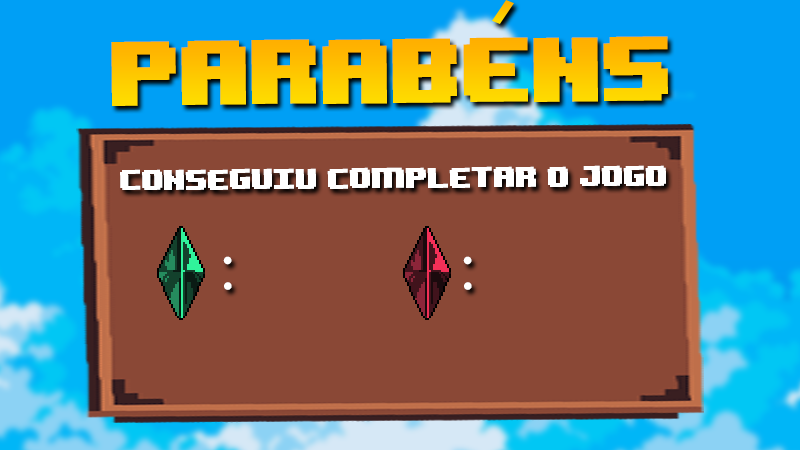
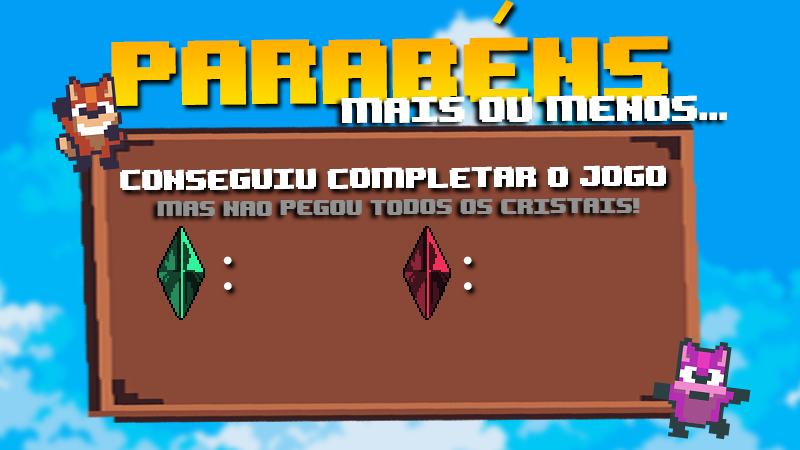
fimsinc

diff --git a/cliente/js/fase1.js b/cliente/js/fase1.js
@@ -99,6 +99,8 @@ export default class fase1 extends Phaser.Scene {
   }
 
   create () {
+    
+
     this.musica = this.sound.add("musicaa", {
       loop: true, // para repetir indefinidamente
       volume: 0.5, // volume entre 0 e 1
@@ -307,11 +309,30 @@ export default class fase1 extends Phaser.Scene {
     this.game.dadosJogo.onmessage = (event) => {
       const dados = JSON.parse(event.data);
 
-      if (dados.type === "finalizou" && !this.jogoFinalizado) {
-        console.log("→ Recebido sinal de finalização do outro jogador");
-        this.jogoFinalizado = true;
-        this.finalizarJogoLocal();
-      }
+     if (dados.type === "finalizou" && !this.jogoFinalizado) {
+  console.log("→ Recebido sinal de finalização do outro jogador");
+  this.jogoFinalizado = true;
+
+  const totalVerdes = dados.verdes ?? 0;
+const totalVermelhos = dados.vermelhos ?? 0;
+const pontuacao = dados.pontuacao ?? 0;
+
+  if (this.personagemLocal?.body) {
+    this.personagemLocal.body.enable = false;
+  }
+
+  if (totalVerdes === 11 && totalVermelhos === 7) {
+    console.log("[FINALIZAÇÃO REMOTA] Pegou todos! Indo para 'detonou'");
+    this.scene.start("detonou");
+  } else {
+    console.log("[FINALIZAÇÃO REMOTA] Indo para 'final-acabado'");
+    this.scene.start("final-acabado", {
+      pontuacao: this.pontuacao,
+      verdes: totalVerdes,
+      vermelhos: totalVermelhos,
+    });
+  }
+}
       if (dados.type === "pontuacao") {
   this.pontuacao = dados.pontuacao;
 
@@ -637,83 +658,93 @@ if (dados.cristal) {
       { x: 8482.0, y: 3664.67, cor: 0x00ff00 }, // branco (sem mudança)
       { x: 10442.0, y: 3508.67, cor: 0x00ff00 }, // laranja
       { x: 11978.0, y: 3395.33, cor: 0x00ff00 }, // roxo
-      { x: 13281.33, y: 4369.33, cor: 0xff66660 }, // roxo
+      { x: 13281.33, y: 4369.33, cor: 0xff6666 }, // roxo
       { x: 15312.0, y: 3181.33, cor: 0x00ff00 }, // verde
-      { x: 16725.33, y: 3490.67, cor: 0xff66660 }, // verde
+      { x: 16725.33, y: 3490.67, cor: 0xff6666 }, // verde
       { x: 17170.67, y: 2542.67, cor: 0x00ff00 },
-      { x: 17460.0, y: 3218.67, cor: 0xff66660 }, // branco (sem mudança)
+      { x: 17460.0, y: 3218.67, cor: 0xff6666 }, // branco (sem mudança)
       { x: 18416.0, y: 2338.0, cor: 0x00ff00 }, // branco (sem mudança)
-      { x: 19038.00, y: 2250.00, cor: 0x00ff00 }, // branco (sem mudança)
     ];
 
-    this.cristal.forEach((cristal) => {
-      cristal.objeto = this.physics.add.sprite(cristal.x, cristal.y, "crystal");
-      cristal.objeto.body.setAllowGravity(false);
-      cristal.objeto.play("crystal_spin");
+    this.cristaisContagem = {
+  verde: 0,
+  vermelho: 0
+};
 
-      // Aplica a cor tint sem perder a textura
-      cristal.objeto.setTint(cristal.cor);
+this.cristal.forEach((cristal) => {
+  cristal.objeto = this.physics.add.sprite(cristal.x, cristal.y, "crystal");
+  cristal.objeto.body.setAllowGravity(false);
+  cristal.objeto.play("crystal_spin");
 
-      this.physics.add.collider(cristal.objeto, this.layerChao);
-      this.physics.add.overlap(
-        this.personagemLocal,
-        cristal.objeto,
-        (personagem, cristal) => {
+  cristal.objeto.setTint(cristal.cor);
+
+  this.physics.add.collider(cristal.objeto, this.layerChao);
+  this.physics.add.overlap(
+    this.personagemLocal,
+    cristal.objeto,
+    (personagem, cristal) => {
+      cristal.disableBody(true, true);
+
+      this.tweens.add({
+        targets: cristal,
+        scale: 0,
+        alpha: 0,
+        duration: 300,
+        onComplete: () => {
           cristal.disableBody(true, true);
-          this.tweens.add({
-            targets: cristal,
-            scale: 0,
-            alpha: 0,
-            duration: 300,
-            onComplete: () => {
-              cristal.disableBody(true, true);
-            },
-          });
-          this.sound.play("crystalsound");
-          this.pontuacao += 1;
-          console.log("[CRISTAL] Cristal coletado. Pontuação atual:", this.pontuacao);
-          if (this.game.dadosJogo && this.game.dadosJogo.readyState === "open") {
-  this.game.dadosJogo.send(
-    JSON.stringify({
-      type: "pontuacao",
-      pontuacao: this.pontuacao,
-      cristal: this.cristal.map(c => ({ visivel: c.objeto.visible }))
-    })
-  );
-}
-
-          const rainbowColors = [
-            0xff0000, // vermelho
-            0xff7f00, // laranja
-            0xffff00, // amarelo
-            0x00ff00, // verde
-            0x0000ff, // azul
-            0x4b0082, // anil
-            0x8f00ff, // violeta
-          ];
-
-          let colorIndex = 0;
-
-          // Intervalo que troca as cores
-          const colorEvent = this.time.addEvent({
-            delay: 50,
-            loop: true,
-            callback: () => {
-              this.personagemLocal.setTint(rainbowColors[colorIndex]);
-              colorIndex = (colorIndex + 1) % rainbowColors.length;
-            },
-          });
-
-          // Depois de 700ms, para o efeito e limpa a cor
-          this.time.delayedCall(700, () => {
-            colorEvent.remove(false); // para o evento de troca
-            this.personagemLocal.clearTint(); // remove a cor
-          });
         },
-        null,
-        this
-      );
-    });
+      });
+
+      this.sound.play("crystalsound");
+      this.pontuacao += 1;
+
+      // Verifica a cor do cristal coletado
+      const tint = cristal.tintTopLeft;
+      if (tint === 0x00ff00) {
+        this.cristaisContagem.verde += 1;
+        console.log("[CRISTAL] Verde coletado:", this.cristaisContagem.verde);
+      } else if (tint === 0xff6666) {
+        this.cristaisContagem.vermelho += 1;
+        console.log("[CRISTAL] Vermelho coletado:", this.cristaisContagem.vermelho);
+      }
+
+      console.log("[CRISTAL] Total:", this.pontuacao);
+
+      if (this.game.dadosJogo && this.game.dadosJogo.readyState === "open") {
+        this.game.dadosJogo.send(
+          JSON.stringify({
+            type: "pontuacao",
+            pontuacao: this.pontuacao,
+            verdes: this.cristaisContagem.verde,
+            vermelhos: this.cristaisContagem.vermelho,
+            cristal: this.cristal.map(c => ({ visivel: c.objeto.visible }))
+          })
+        );
+      }
+
+      // Efeito arco-íris
+      const rainbowColors = [0xff0000, 0xff7f00, 0xffff00, 0x00ff00, 0x0000ff, 0x4b0082, 0x8f00ff];
+      let colorIndex = 0;
+
+      const colorEvent = this.time.addEvent({
+        delay: 50,
+        loop: true,
+        callback: () => {
+          this.personagemLocal.setTint(rainbowColors[colorIndex]);
+          colorIndex = (colorIndex + 1) % rainbowColors.length;
+        },
+      });
+
+      this.time.delayedCall(700, () => {
+        colorEvent.remove(false);
+        this.personagemLocal.clearTint();
+      });
+    },
+    null,
+    this
+  );
+});
+
     this.checarUI = () => {
       const elementosUI = [
         { nome: "Joystick", objeto: this.joystick.base },
@@ -1883,13 +1914,33 @@ if (dados.cristal) {
         });
   
         // Ir para cena final
-       this.time.delayedCall(9000, () => {
-         console.log("[FINALIZAÇÃO] Enviando para final-acabado com pontuação:", this.pontuacao);
+  this.time.delayedCall(9000, () => {
+  const totalVerdes = this.cristaisContagem.verde || 0;
+  const totalVermelhos = this.cristaisContagem.vermelho || 0;
+
   if (this.personagemLocal && this.personagemLocal.body) {
-    this.personagemLocal.body.enable = false;  // desativa o corpo
+    this.personagemLocal.body.enable = false;
   }
-  this.scene.start("final-acabado", { pontuacao: this.pontuacao });
+
+  // → Enviar para o outro jogador que acabou
+  if (this.game.dadosJogo?.readyState === "open") {
+    this.game.dadosJogo.send(JSON.stringify({ type: "finalizou" }));
+  }
+
+  if (totalVerdes === 11 && totalVermelhos === 7) {
+    console.log("[FINALIZAÇÃO] Pegou todos! Enviando para 'detonou'");
+    this.scene.start("detonou");
+  } else {
+    console.log("[FINALIZAÇÃO] Enviando para 'final-acabado'");
+    this.scene.start("final-acabado", {
+      pontuacao: this.pontuacao,
+      verdes: totalVerdes,
+      vermelhos: totalVermelhos,
+    });
+  }
 });
+
+
 
       }
     });

diff --git a/cliente/js/final-acabado.js b/cliente/js/final-acabado.js
@@ -25,24 +25,38 @@ export default class finalacabado extends Phaser.Scene {
       return;
     }
 
-    // Fundo
-    this.add.image(0, 0, 'parabens').setOrigin(0).setDepth(0)
-    // Pega pontuação do jogador
-    const pontuacao = data.pontuacao || 0;
+    this.add.image(0, 0, 'parabens').setOrigin(0).setDepth(0);
 
-    // Mostra quantos cristais foram coletados
+    const pontuacao = data.pontuacao || 0;
+    const verdes = data.verdes || 0;
+    const vermelhos = data.vermelhos || 0;
+
+    // Texto total
     this.add.text(
-      300,
-      280,
-      `${pontuacao}`,
+      320, 280,
+      `${verdes} / 11`,
       {
         fontFamily: 'game-over',
-        fontSize: '30px',
-        color: '#ffffff',
+        fontSize: '28px',
+        color: '#00ff00',
         stroke: '#000000',
         strokeThickness: 4,
       }
     ).setOrigin(0.5);
+
+    // Texto verde
+    this.add.text(
+      540, 280,
+      `${vermelhos} / 7`,
+      {
+        fontFamily: 'game-over',
+        fontSize: '28px',
+        color: '#ff0000',
+        stroke: '#000000',
+        strokeThickness: 4,
+      }
+    ).setOrigin(0.5);
+
   }
 
   update() {}

diff --git a/cliente/js/index.js b/cliente/js/index.js
@@ -7,6 +7,7 @@ import sala from "./sala.js";
 import fase1 from "./fase1.js";
 import finalacabado from "./final-acabado.js";
 import finalperdeu from "./final-perdeu.js";
+import detonou from "./detonou.js";
 
 class Game extends Phaser.Game {
   constructor() {
@@ -35,6 +36,7 @@ class Game extends Phaser.Game {
     this.scene.add("fase1", fase1);
     this.scene.add("finalacabado", finalacabado);
     this.scene.add("finalperdeu", finalperdeu);
+    this.scene.add("detonou", detonou);
     this.scene.start("abertura");
   }
 }

diff --git a/cliente/js/detonou.js b/cliente/js/detonou.js
@@ -1,0 +1,13 @@
+export default class Detonou extends Phaser.Scene {
+  constructor() {
+    super('detonou');
+  }
+
+  preload() {
+    this.load.image('detonou', 'assets/detonou.png'); // Adicione essa imagem na pasta
+  }
+
+  create() {
+    this.add.image(0, 0, 'detonou').setOrigin(0);
+  }
+}
